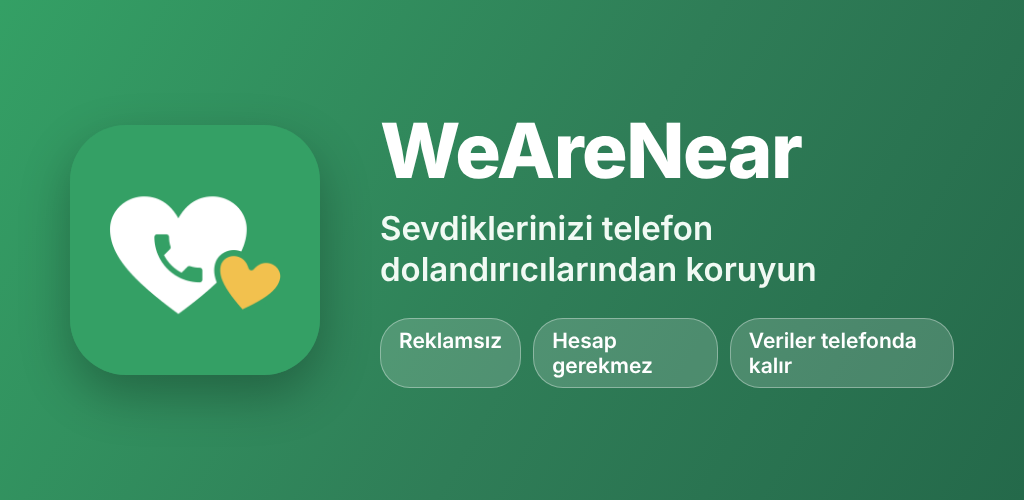
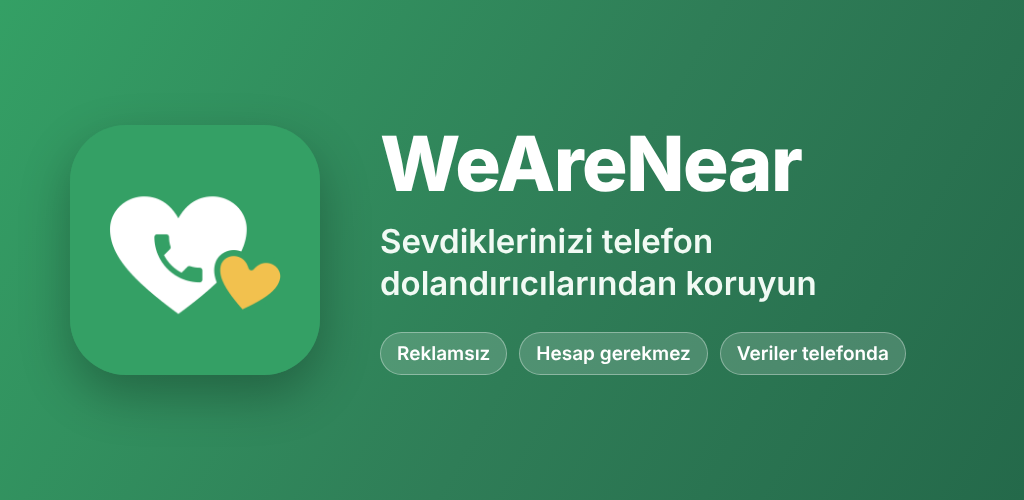
Tanıtım görseli etiketleri tek satır
Claude-Session: https://claude.ai/code/session_01KjC5ELx3Fq1ALdJeCGRpyj

Changed region(s): [[0.375, 0.63, 0.9375, 0.78], [0.375, 0.42, 0.8125, 0.6], [0.375, 0.24, 0.7812, 0.39]]

diff --git a/tools/store_shots.html b/tools/store_shots.html
@@ -82,7 +82,7 @@ body{background:#888;font-family:Inter,"Noto Color Emoji",sans-serif}
 .fg h1{font-size:76px;font-weight:800;letter-spacing:-1.5px;line-height:1}
 .fg p{font-size:33px;font-weight:600;margin-top:20px;line-height:1.25;color:#F1FAF4}
 .fg .tags{display:flex;gap:12px;margin-top:28px}
-.fg .tags span{background:rgba(255,255,255,.16);border:1.5px solid rgba(255,255,255,.35);border-radius:30px;padding:9px 18px;font-size:21px;font-weight:600}
+.fg .tags span{background:rgba(255,255,255,.16);border:1.5px solid rgba(255,255,255,.35);border-radius:30px;padding:9px 16px;font-size:19px;font-weight:600;white-space:nowrap}
 </style></head><body>
 
 <!-- ===== 1: Ana ekran ===== -->
@@ -183,6 +183,6 @@ body{background:#888;font-family:Inter,"Noto Color Emoji",sans-serif}
   <img src="../store/play-icon-512.png">
   <div class="tx"><h1>WeAreNear</h1>
     <p>Sevdiklerinizi telefon<br>dolandırıcılarından koruyun</p>
-    <div class="tags"><span>Reklamsız</span><span>Hesap gerekmez</span><span>Veriler telefonda kalır</span></div></div>
+    <div class="tags"><span>Reklamsız</span><span>Hesap gerekmez</span><span>Veriler telefonda</span></div></div>
 </div>
 </body></html>
